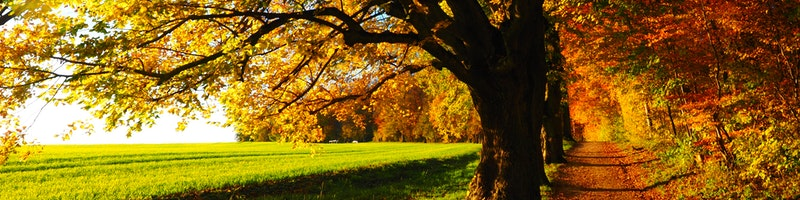
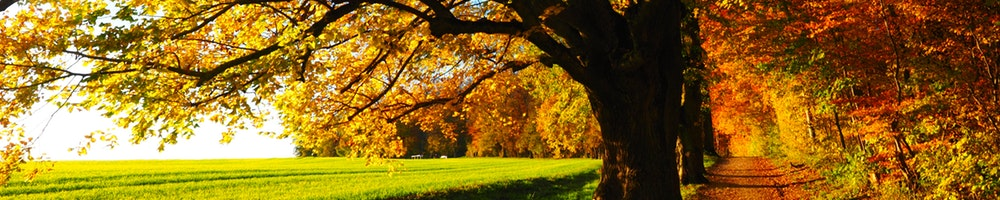
wolrking on media queries

diff --git a/less/navigation.less b/less/navigation.less
@@ -6,36 +6,53 @@ header{
     nav{
         display: flex;
         .width100();
+        @media @mobile{
+            flex-direction: column;
+        }
 
         .logo{
             width: 40%;
+            @media @mobile{
+                width: 70%;
+                margin: 0 auto;
+            }
         }//closes .logo
         .links{
             width: 60%;
             text-align: right;
             margin: 8% 2% 0 0; 
+            @media @mobile{
+                .width100();
+                .center();
+            }
+
             a{
                 margin: 2%;
                 padding: 2%;
-                color: black;
-                text-decoration: none;
+                .navstyle(black; none);
                 font-size: 1.5rem;
 
                 &:hover{
-                    color: @orange;
-                    text-decoration: underline;
-                }
+                    .navstyle(@orange; underline);
+                }//closes &:hover
             }// closes a
            
-            a:last-child {
+            a:nth-child(5) {
                 color: white;
                 background-color: @green;
 
                 &:hover{
                     color: @orange;
                     background-color: white;
-                }
-            }
+                }//closes &:hover 
+            }//closes a:nth-child(5)
+            input{
+                width: 26%;
+                margin: 5% 2% 0% 0%;
+            }//closes input tag
+            button{
+                margin-right: 2%;
+            }//closes button tag
         }//closes .links
     }//closes the nav
 }//closes the header
@@ -53,14 +70,12 @@ header{
         padding: 2% 0;
         
         a{
-        color: @summer;
-        
-        text-decoration: none;
+        .navstyle(@summer; none);
         font-size: 1.5rem;
         &:hover{
             color: @green;
             background-color: @summer;
-        }
+        }//closes &:hover
         }//closes a tag
     }//closes .bottom-links
 }//closes .bottom-nav

diff --git a/css/index.css b/css/index.css
@@ -135,7 +135,7 @@ html {
 html,
 body {
   font-family: 'Roboto', sans-serif;
-  max-width: 800px;
+  max-width: 1000px;
   width: 100%;
   margin: 0 auto;
   background-color: #f0f0f0;
@@ -179,13 +179,30 @@ header nav {
   display: flex;
   width: 100%;
 }
+@media (max-width: 500px) {
+  header nav {
+    flex-direction: column;
+  }
+}
 header nav .logo {
   width: 40%;
+}
+@media (max-width: 500px) {
+  header nav .logo {
+    width: 70%;
+    margin: 0 auto;
+  }
 }
 header nav .links {
   width: 60%;
   text-align: right;
   margin: 8% 2% 0 0;
+}
+@media (max-width: 500px) {
+  header nav .links {
+    width: 100%;
+    text-align: center;
+  }
 }
 header nav .links a {
   margin: 2%;
@@ -198,13 +215,20 @@ header nav .links a:hover {
   color: #FDA77F;
   text-decoration: underline;
 }
-header nav .links a:last-child {
+header nav .links a:nth-child(5) {
   color: white;
   background-color: #445C3C;
 }
-header nav .links a:last-child:hover {
+header nav .links a:nth-child(5):hover {
   color: #FDA77F;
   background-color: white;
+}
+header nav .links input {
+  width: 26%;
+  margin: 5% 2% 0% 0%;
+}
+header nav .links button {
+  margin-right: 2%;
 }
 .bottom-nav {
   width: 100%;

diff --git a/less/about-page.less b/less/about-page.less
@@ -5,10 +5,10 @@
     h1{
         .width100();
         padding: 2%;
-        text-align: center;
+        .center();
     }//closes h1 tag
     p{
-        text-align: center;
+        .center();
         .width100();
         padding: 3% 10%;
         margin: 0 auto;
@@ -40,15 +40,15 @@
 }//closes .about
 
 .team-title{
-    text-align: center;
+    .center();
     .width100();
     padding: 2% 0;
-}
+}//closes .team-title
 .about-content{
     padding: 2% 0;
     .width100();
     display: flex;
-    text-align: center;
+    .center();
 
     .text-one, .text-two{
        width: 50%;
@@ -62,8 +62,8 @@
                 &:hover{
                     color: @summer;
                     background-color: @green;
-                }
-            }
-        }
-    }
-}
+                }//closes &:hover
+            }// closes a tag
+        }// closes div tag
+    }//closes .text-one & .text-two
+}//closes .about-content

diff --git a/less/home-page.less b/less/home-page.less
@@ -1,7 +1,7 @@
 .top-content{
     .width100();
     h1{
-        text-align: center;
+        .center();
         margin-top: 2%;
     }//closes h1 tag
     p{
@@ -33,7 +33,7 @@
         }//closes img tag
 
         h2{
-            text-align: center;
+            .center();
         }//closes h2 tag
         p{
             padding: 2% 3%;
@@ -45,7 +45,7 @@
     margin: 4% 0;
     .width100();
     h2{
-        text-align: center;
+        .center();
         padding-bottom: 4%;
     }//closes h1 tag
     .yelp-review{
@@ -55,7 +55,7 @@
 
 .contact{
     .width100();
-    text-align: center;
+    .center();
     background-color: @green;
     color: @pastel;
 }//closes .contact
@@ -66,6 +66,6 @@ footer{
     div{
         a{
             color: @orange;
-        }
-    }
+        }//closes a tag
+    }//closes div
 }//closes footer tag

diff --git a/about.html b/about.html
@@ -20,11 +20,13 @@
                 <a href="#">Explore</a>
                 <a href="#">Log In</a>
                 <a href="#">Sign Up</a>
+                <input type="text" placeholder="Search.." name="search">
+                <button type="submit">Enter</button>
             </div>
         </nav>
     </header>
 
-    <img src="images/nature-sky-clouds-field-9198 (1).jpg" alt="big round tree">
+    <img src="images/nature-sky-clouds-field-9198.jpg" alt="big round tree">
 
     <section class="about">
         <h1>About Us</h1>

diff --git a/index.html b/index.html
@@ -23,6 +23,8 @@
                 <a href="#">Explore</a>
                 <a href="#">Log In</a>
                 <a href="#">Sign Up</a>
+                <input type="text" placeholder="Search.." name="search">
+                <button type="submit">Enter</button>
             </div>
         </nav>
     </header>

diff --git a/less/mixins.less b/less/mixins.less
@@ -3,6 +3,15 @@
     font-size: @size;
     padding-bottom: @padbottom;
 }
+
 .width100(){
     width: 100%;
+}
+
+.navstyle (@stycolor; @txtdecor){
+    color: @stycolor;
+    text-decoration: @txtdecor;
+}
+.center(){
+    text-align: center;
 }

diff --git a/less/global.less b/less/global.less
@@ -8,7 +8,7 @@
   
   html, body {
     font-family: 'Roboto', sans-serif ;
-    max-width: 800px;
+    max-width: 1000px;
     width: 100%;
     margin: 0 auto;
     background-color: rgb(240, 240, 240);

diff --git a/less/footer.less b/less/footer.less
@@ -2,4 +2,4 @@ footer{
     width: 100%;
     text-align: center;
     padding: 2% 0;
-}
+}// closes footer tag
